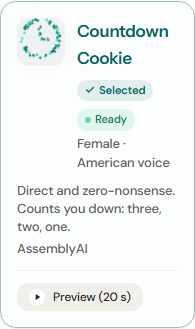
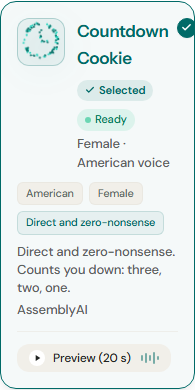
feat(voice-ui): ElevenLabs-style voice cards with radio check, category tags, 5-bar waveform & instant search

diff --git a/src/components/VoicePicker.tsx b/src/components/VoicePicker.tsx
@@ -35,6 +35,18 @@ function engineLine(p: VoicePersona, caps: TtsCaps): string {
   return ENGINES.assemblyai.label;
 }
 
+/** Structured ElevenLabs-style metadata tags (Accent, Gender, Tone) for a voice persona. */
+function personaTags(p: VoicePersona): { accent: string; gender: string; tone: string } {
+  const accent = p.voiceLabel
+    .replace(/,\s*accent not documented/i, '')
+    .replace(/\s*voice$/i, '')
+    .trim();
+  const gender = p.gender === 'female' ? 'Female' : 'Male';
+  const firstClause = p.style.split('.')[0]?.trim() || 'Calm coach';
+  const tone = firstClause.length > 24 ? `${firstClause.slice(0, 22).trim()}…` : firstClause;
+  return { accent, gender, tone };
+}
+
 function VoiceCard({
   p,
   caps,
@@ -58,6 +70,7 @@ function VoiceCard({
 }) {
   const usable = chooseVoice(p, caps).ref !== null;
   const needText = chooseVoice(p, caps).needs;
+  const tags = personaTags(p);
 
   return (
     <div
@@ -65,10 +78,10 @@ function VoiceCard({
       tabIndex={0}
       onClick={onPick}
       onKeyDown={(e) => { if (e.key === "Enter" || e.key === " ") { e.preventDefault(); onPick(); } }}
-      className={`group relative flex flex-col justify-between rounded-2xl border transition-all duration-300 cursor-pointer select-none ${
+      className={`el-voice-card group relative flex flex-col justify-between rounded-2xl border cursor-pointer select-none ${
         selected
           ? '!border-primary !bg-primary/[0.04] ring-2 ring-primary/25 shadow-sm'
-          : 'border-line bg-surface hover:border-line-strong hover:shadow-lg hover:-translate-y-1'
+          : 'border-line bg-surface hover:border-line-strong'
       } ${playing ? 'ring-2 ring-emerald-500/40 !border-emerald-600' : ''} p-4 ${hidden ? 'hidden' : ''}`}
       style={{ opacity: usable ? 1 : 0.82 }}
       data-testid={`voice-${p.id}`}
@@ -77,7 +90,7 @@ function VoiceCard({
       <div>
         <div className="flex items-start gap-3">
           {/* Logo container with 3D hover transform animation */}
-          <div className="relative w-12 h-12 flex-shrink-0 flex items-center justify-center rounded-xl bg-surface-2/70 p-1 group-hover:bg-primary/5 transition-all duration-300">
+          <div className="relative w-12 h-12 flex-shrink-0 flex items-center justify-center rounded-xl bg-surface-2/75 border border-line/70 p-1 group-hover:bg-primary/5 group-hover:border-primary/25 transition-all duration-300">
             <svg
               viewBox="0 0 100 100"
               className={`voice-card-glyph ${
@@ -114,32 +127,53 @@ function VoiceCard({
 
           <button
             type="button"
-            className="flex-1 text-left focus:outline-none cursor-pointer"
+            className="flex-1 min-w-0 text-left focus:outline-none cursor-pointer"
             aria-pressed={selected}
             onClick={(e) => { e.stopPropagation(); onPick(); }}
           >
-            <div className="flex items-center gap-2 flex-wrap">
-              <span className="font-display font-semibold text-ink text-[1.05rem] group-hover:text-primary transition-colors">
-                {p.name}
-              </span>
-              {selected && (
-                <span className="inline-flex items-center gap-1 rounded-full bg-primary/10 px-2 py-0.5 text-[0.7rem] font-semibold text-primary">
-                  <svg width="10" height="10" viewBox="0 0 24 24" fill="none" stroke="currentColor" strokeWidth="3" strokeLinecap="round" strokeLinejoin="round" aria-hidden="true">
+            <div className="flex items-start justify-between gap-2">
+              <div className="flex items-center gap-2 flex-wrap">
+                <span className="font-display font-semibold text-ink text-[1.05rem] group-hover:text-primary transition-colors">
+                  {p.name}
+                </span>
+                {selected && (
+                  <span className="inline-flex items-center gap-1 rounded-full bg-primary/10 px-2 py-0.5 text-[0.7rem] font-semibold text-primary">
+                    <svg width="10" height="10" viewBox="0 0 24 24" fill="none" stroke="currentColor" strokeWidth="3" strokeLinecap="round" strokeLinejoin="round" aria-hidden="true">
+                      <polyline points="20 6 9 17 4 12" />
+                    </svg>
+                    Selected
+                  </span>
+                )}
+                {usable ? (
+                  <span className="inline-flex items-center gap-1 rounded-full bg-emerald-500/10 px-2 py-0.5 text-[0.7rem] font-medium text-emerald-700 dark:text-emerald-300">
+                    <span className="w-1.5 h-1.5 rounded-full bg-emerald-500 animate-pulse" />
+                    Ready
+                  </span>
+                ) : (
+                  <span className="inline-flex items-center gap-1 rounded-full bg-amber-500/10 px-2 py-0.5 text-[0.7rem] font-medium text-amber-800 dark:text-amber-300">
+                    Needs Setup
+                  </span>
+                )}
+              </div>
+
+              {/* ElevenLabs circular radio/check indicator */}
+              <span
+                aria-hidden="true"
+                data-testid={`voice-radio-${p.id}`}
+                className={`flex-shrink-0 w-5 h-5 rounded-full border flex items-center justify-center transition-all duration-200 ${
+                  selected
+                    ? 'bg-primary border-primary text-white scale-100 shadow-xs'
+                    : 'border-line-strong bg-surface group-hover:border-primary/60'
+                }`}
+              >
+                {selected ? (
+                  <svg width="11" height="11" viewBox="0 0 24 24" fill="none" stroke="currentColor" strokeWidth="3.2" strokeLinecap="round" strokeLinejoin="round">
                     <polyline points="20 6 9 17 4 12" />
                   </svg>
-                  Selected
-                </span>
-              )}
-              {usable ? (
-                <span className="inline-flex items-center gap-1 rounded-full bg-emerald-500/10 px-2 py-0.5 text-[0.7rem] font-medium text-emerald-700 dark:text-emerald-300">
-                  <span className="w-1.5 h-1.5 rounded-full bg-emerald-500 animate-pulse" />
-                  Ready
-                </span>
-              ) : (
-                <span className="inline-flex items-center gap-1 rounded-full bg-amber-500/10 px-2 py-0.5 text-[0.7rem] font-medium text-amber-800 dark:text-amber-300">
-                  Needs Setup
-                </span>
-              )}
+                ) : (
+                  <span className="w-1.5 h-1.5 rounded-full bg-transparent group-hover:bg-primary/30 transition-colors" />
+                )}
+              </span>
             </div>
 
             <div className="mt-1 flex items-center gap-1.5 flex-wrap">
@@ -150,7 +184,20 @@ function VoiceCard({
           </button>
         </div>
 
-        <p className="meta mt-2.5 text-xs leading-relaxed text-ink-2">{p.style}</p>
+        {/* ElevenLabs category tags (Accent · Gender · Tone) */}
+        <div className="mt-2.5 flex items-center gap-1.5 flex-wrap" data-testid={`voice-tags-${p.id}`}>
+          <span className="inline-flex items-center rounded-md bg-surface-2 px-2 py-0.5 text-[0.68rem] font-medium text-ink-2 border border-line/80">
+            {tags.accent}
+          </span>
+          <span className="inline-flex items-center rounded-md bg-surface-2 px-2 py-0.5 text-[0.68rem] font-medium text-ink-2 border border-line/80">
+            {tags.gender}
+          </span>
+          <span className="inline-flex items-center rounded-md bg-primary/[0.06] px-2 py-0.5 text-[0.68rem] font-medium text-primary border border-primary/15">
+            {tags.tone}
+          </span>
+        </div>
+
+        <p className="meta mt-2 text-xs leading-relaxed text-ink-2">{p.style}</p>
         <p className="meta mt-1 text-[0.75rem] text-ink-3" data-testid={`voice-engine-${p.id}`}>{engineLine(p, caps)}</p>
       </div>
 
@@ -185,13 +232,17 @@ function VoiceCard({
               )}
             </span>
             <span>{playing ? 'Stop' : 'Preview (20 s)'}</span>
-            {playing && (
-              <span className="flex items-center gap-0.5 ml-0.5 h-3">
-                <span className="w-0.5 bg-white rounded-full animate-soundwave-1" />
-                <span className="w-0.5 bg-white rounded-full animate-soundwave-2" />
-                <span className="w-0.5 bg-white rounded-full animate-soundwave-3" />
-              </span>
-            )}
+            <span
+              className="flex items-center gap-0.5 ml-0.5 h-3.5"
+              data-testid={`voice-wave-indicator-${p.id}`}
+              aria-hidden="true"
+            >
+              <span className={`w-0.5 rounded-full ${playing ? 'bg-white animate-soundwave-1' : 'h-1.5 bg-ink-3/35 group-hover:bg-primary/50 transition-all'}`} />
+              <span className={`w-0.5 rounded-full ${playing ? 'bg-white animate-soundwave-2' : 'h-2.5 bg-ink-3/35 group-hover:bg-primary/50 transition-all'}`} />
+              <span className={`w-0.5 rounded-full ${playing ? 'bg-white animate-soundwave-3' : 'h-1.5 bg-ink-3/35 group-hover:bg-primary/50 transition-all'}`} />
+              <span className={`w-0.5 rounded-full ${playing ? 'bg-white animate-soundwave-4' : 'h-3 bg-ink-3/35 group-hover:bg-primary/50 transition-all'}`} />
+              <span className={`w-0.5 rounded-full ${playing ? 'bg-white animate-soundwave-5' : 'h-1 bg-ink-3/35 group-hover:bg-primary/50 transition-all'}`} />
+            </span>
           </button>
 
           {!usable && (
@@ -213,6 +264,7 @@ export function VoicePicker({ selected, onSelect, fastVoice }: Props) {
   const [playing, setPlaying] = useState<string | null>(null);
   const [errors, setErrors] = useState<Record<string, string>>({});
   const [filter, setFilter] = useState<FilterMode>('all');
+  const [search, setSearch] = useState('');
   const [key, setKey] = useState('');
   const [region, setRegion] = useState('');
   const [keyStatus, setKeyStatus] = useState<{ ok: boolean; message: string } | null>(null);
@@ -253,6 +305,11 @@ export function VoicePicker({ selected, onSelect, fastVoice }: Props) {
   };
 
   const matchesFilter = (p: VoicePersona) => {
+    const q = search.trim().toLowerCase();
+    if (q) {
+      const hay = `${p.name} ${p.voiceLabel} ${p.style} ${p.gender}`.toLowerCase();
+      if (!hay.includes(q)) return false;
+    }
     if (filter === 'all') return true;
     if (filter === 'ready') return chooseVoice(p, caps).ref !== null;
     if (filter === 'british') return p.voiceLabel.includes('British');
@@ -289,6 +346,18 @@ export function VoicePicker({ selected, onSelect, fastVoice }: Props) {
         <div>
           <p className="label">Recommended</p>
           <p className="meta mt-0.5">Four voices that are clear and calm, with the accent each name promises.</p>
+        </div>
+
+        <div className="relative w-full sm:w-56">
+          <input
+            type="search"
+            value={search}
+            onChange={(e) => setSearch(e.target.value)}
+            placeholder="Search voice, accent, tone…"
+            aria-label="Search voices"
+            data-testid="voice-search"
+            className="w-full rounded-xl border border-line-strong bg-surface px-3 py-1.5 text-xs text-ink placeholder:text-ink-3 focus:border-primary focus:outline-none"
+          />
         </div>
 
         {/* ElevenLabs category filter bar */}

diff --git a/src/components/landing/Personas.tsx b/src/components/landing/Personas.tsx
@@ -12,6 +12,7 @@ const NATIVE_NAME: Record<string, string> = { es: 'Spanish', fr: 'French', de: '
 export function Personas({ personas, glyphs }: { personas: VoicePersona[]; glyphs: Record<string, DotGlyph | null> }) {
   const [filter, setFilter] = useState<Filter>('all');
   const [playingId, setPlayingId] = useState<string | null>(null);
+  const [selectedId, setSelectedId] = useState<string>('anna');
   const audioRef = useRef<HTMLAudioElement | null>(null);
 
   useEffect(() => {
@@ -24,6 +25,7 @@ export function Personas({ personas, glyphs }: { personas: VoicePersona[]; glyph
   }, []);
 
   const togglePlay = (p: VoicePersona) => {
+    setSelectedId(p.id);
     if (playingId === p.id) {
       if (audioRef.current) {
         audioRef.current.pause();
@@ -88,11 +90,21 @@ export function Personas({ personas, glyphs }: { personas: VoicePersona[]; glyph
         {shown.map((p) => {
           const g = glyphs[p.shape];
           const isPlaying = playingId === p.id;
+          const isSelected = selectedId === p.id;
+          const accentTag = p.voiceLabel.replace(/,\s*accent not documented/i, '').replace(/\s*voice$/i, '').trim();
+          const genderTag = p.gender === 'female' ? 'Female' : 'Male';
+          const firstClause = p.style.split('.')[0]?.trim() || 'Calm coach';
+          const toneTag = firstClause.length > 22 ? `${firstClause.slice(0, 20).trim()}…` : firstClause;
+
           return (
             <li
               key={p.id}
-              className={`lp-persona group relative cursor-pointer select-none transition-all duration-300 hover:scale-[1.02] hover:shadow-md ${
-                isPlaying ? '!border-accent !bg-accent/5 ring-2 ring-accent/30' : ''
+              className={`lp-persona el-voice-card group relative cursor-pointer select-none ${
+                isPlaying
+                  ? '!border-accent !bg-accent/5 ring-2 ring-accent/30'
+                  : isSelected
+                    ? '!border-primary !bg-primary/[0.03] ring-1 ring-primary/20'
+                    : ''
               }`}
               data-testid="persona"
               onClick={() => togglePlay(p)}
@@ -107,12 +119,12 @@ export function Personas({ personas, glyphs }: { personas: VoicePersona[]; glyph
               aria-label={`${isPlaying ? 'Pause' : 'Listen to'} ${p.name}'s voice`}
               aria-pressed={isPlaying}
             >
-              <div className="flex items-start justify-between">
+              <div className="flex items-start justify-between gap-2">
                 <div className="relative">
                   <svg
                     viewBox="0 0 100 100"
-                    className={`lp-glyph transition-all duration-500 ease-out group-hover:scale-125 group-hover:-rotate-6 group-hover:drop-shadow-[0_8px_16px_rgba(99,102,241,0.45)] ${
-                      isPlaying ? 'scale-125 -rotate-6 animate-pulse drop-shadow-[0_0_14px_rgba(99,102,241,0.7)]' : ''
+                    className={`lp-glyph transition-all duration-500 ease-out group-hover:scale-125 group-hover:-rotate-6 group-hover:drop-shadow-[0_8px_16px_rgba(0,106,103,0.35)] ${
+                      isPlaying ? 'scale-125 -rotate-6 animate-pulse drop-shadow-[0_0_14px_rgba(0,106,103,0.6)]' : ''
                     }`}
                     aria-hidden="true"
                     focusable="false"
@@ -129,30 +141,53 @@ export function Personas({ personas, glyphs }: { personas: VoicePersona[]; glyph
                   )}
                 </div>
 
-                <span
-                  className={`inline-flex items-center gap-1.5 rounded-full px-2.5 py-1 text-xs font-medium transition-all duration-300 ${
-                    isPlaying
-                      ? 'bg-accent text-white shadow-sm'
-                      : 'bg-stone-100 text-stone-600 opacity-0 group-hover:opacity-100 dark:bg-stone-800 dark:text-stone-300'
-                  }`}
-                >
-                  {isPlaying ? (
-                    <>
-                      <span className="flex h-2 w-2 relative">
-                        <span className="animate-ping absolute inline-flex h-full w-full rounded-full bg-white opacity-75"></span>
-                        <span className="relative inline-flex rounded-full h-2 w-2 bg-white"></span>
-                      </span>
-                      Playing
-                    </>
-                  ) : (
-                    <>
-                      <svg width="12" height="12" viewBox="0 0 24 24" fill="currentColor" aria-hidden="true">
-                        <polygon points="5 3 19 12 5 21 5 3" />
+                <div className="flex items-center gap-2">
+                  <span
+                    className={`inline-flex items-center gap-1.5 rounded-full px-2.5 py-1 text-xs font-medium transition-all duration-300 ${
+                      isPlaying
+                        ? 'bg-accent text-white shadow-sm'
+                        : 'bg-surface-2 text-ink-2 group-hover:bg-accent-soft group-hover:text-accent-hover'
+                    }`}
+                  >
+                    {isPlaying ? (
+                      <>
+                        <svg width="10" height="10" viewBox="0 0 24 24" fill="currentColor" aria-hidden="true">
+                          <rect x="4" y="4" width="16" height="16" rx="2" />
+                        </svg>
+                        <span>Stop</span>
+                        <span className="flex items-center gap-0.5 ml-0.5 h-3" aria-hidden="true">
+                          <span className="w-0.5 bg-white rounded-full animate-soundwave-1" />
+                          <span className="w-0.5 bg-white rounded-full animate-soundwave-2" />
+                          <span className="w-0.5 bg-white rounded-full animate-soundwave-3" />
+                          <span className="w-0.5 bg-white rounded-full animate-soundwave-4" />
+                        </span>
+                      </>
+                    ) : (
+                      <>
+                        <svg width="10" height="10" viewBox="0 0 24 24" fill="currentColor" aria-hidden="true">
+                          <polygon points="5 3 19 12 5 21 5 3" />
+                        </svg>
+                        <span>Preview</span>
+                      </>
+                    )}
+                  </span>
+
+                  {/* Radio / check selection indicator */}
+                  <span
+                    aria-hidden="true"
+                    className={`w-5 h-5 rounded-full border flex items-center justify-center transition-all duration-200 ${
+                      isSelected || isPlaying
+                        ? 'bg-primary border-primary text-white shadow-xs'
+                        : 'border-line-strong bg-surface group-hover:border-primary/60'
+                    }`}
+                  >
+                    {(isSelected || isPlaying) && (
+                      <svg width="11" height="11" viewBox="0 0 24 24" fill="none" stroke="currentColor" strokeWidth="3.2" strokeLinecap="round" strokeLinejoin="round">
+                        <polyline points="20 6 9 17 4 12" />
                       </svg>
-                      Listen
-                    </>
-                  )}
-                </span>
+                    )}
+                  </span>
+                </div>
               </div>
 
               <div>
@@ -160,7 +195,18 @@ export function Personas({ personas, glyphs }: { personas: VoicePersona[]; glyph
                   <span>{p.name}</span>
                 </h4>
                 <p className="meta">{p.voiceLabel}{p.nativeLang ? `, ${NATIVE_NAME[p.nativeLang]} accent` : ''}</p>
-                <p className="mt-1.5 text-[0.92rem] text-ink-2">{p.style}</p>
+                <div className="mt-2 flex items-center gap-1.5 flex-wrap">
+                  <span className="inline-flex items-center rounded-md bg-surface-2 px-2 py-0.5 text-[0.68rem] font-medium text-ink-2 border border-line/80">
+                    {accentTag}
+                  </span>
+                  <span className="inline-flex items-center rounded-md bg-surface-2 px-2 py-0.5 text-[0.68rem] font-medium text-ink-2 border border-line/80">
+                    {genderTag}
+                  </span>
+                  <span className="inline-flex items-center rounded-md bg-primary/[0.06] px-2 py-0.5 text-[0.68rem] font-medium text-primary border border-primary/15">
+                    {toneTag}
+                  </span>
+                </div>
+                <p className="mt-2 text-[0.92rem] text-ink-2">{p.style}</p>
               </div>
             </li>
           );

diff --git a/src/app/globals.css b/src/app/globals.css
@@ -226,12 +226,29 @@ body {
 
 /* ElevenLabs Audio Waveform Animations */
 @keyframes soundwave-bar {
-  0%, 100% { height: 4px; }
-  50% { height: 14px; }
+  0%, 100% { height: 4px; opacity: 0.65; }
+  50% { height: 14px; opacity: 1; }
 }
-.animate-soundwave-1 { animation: soundwave-bar 0.75s ease-in-out infinite; }
-.animate-soundwave-2 { animation: soundwave-bar 0.75s ease-in-out 0.2s infinite; }
-.animate-soundwave-3 { animation: soundwave-bar 0.75s ease-in-out 0.4s infinite; }
+.animate-soundwave-1 { animation: soundwave-bar 0.72s ease-in-out infinite; }
+.animate-soundwave-2 { animation: soundwave-bar 0.72s ease-in-out 0.15s infinite; }
+.animate-soundwave-3 { animation: soundwave-bar 0.72s ease-in-out 0.3s infinite; }
+.animate-soundwave-4 { animation: soundwave-bar 0.72s ease-in-out 0.45s infinite; }
+.animate-soundwave-5 { animation: soundwave-bar 0.72s ease-in-out 0.22s infinite; }
+
+.el-voice-card {
+  transition:
+    transform 240ms var(--ease-calm),
+    box-shadow 240ms var(--ease-calm),
+    border-color 200ms ease,
+    background-color 200ms ease;
+}
+.el-voice-card:hover {
+  transform: translateY(-2px);
+  box-shadow: 0 2px 4px rgb(33 36 34 / 0.04), 0 14px 28px -12px rgb(33 36 34 / 0.14);
+}
+.el-voice-card:active {
+  transform: translateY(0) scale(0.995);
+}
 
 /* Voice Card Glyph Hover Transform Animations */
 @keyframes lp-persona-glyph-transform {
